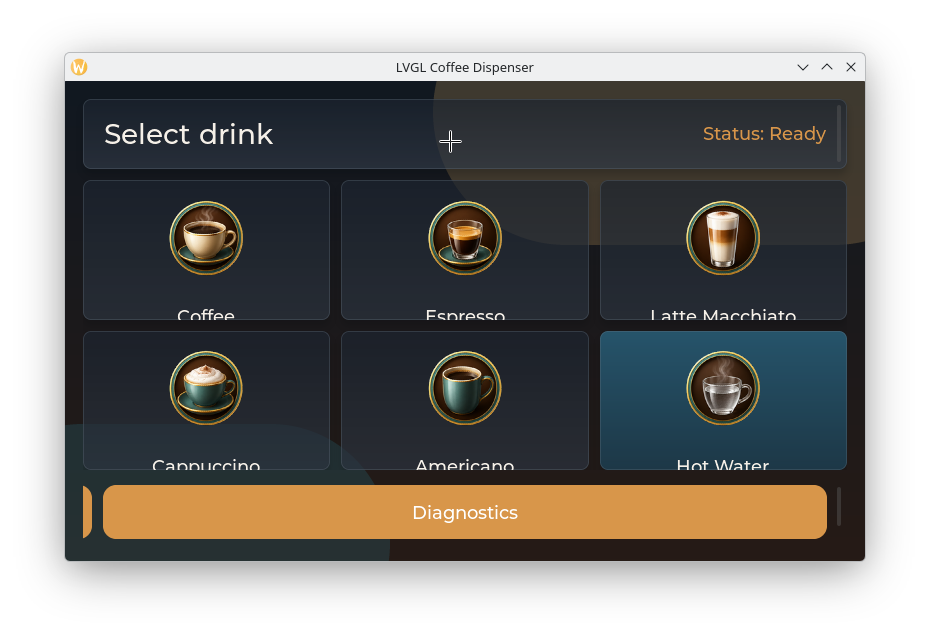
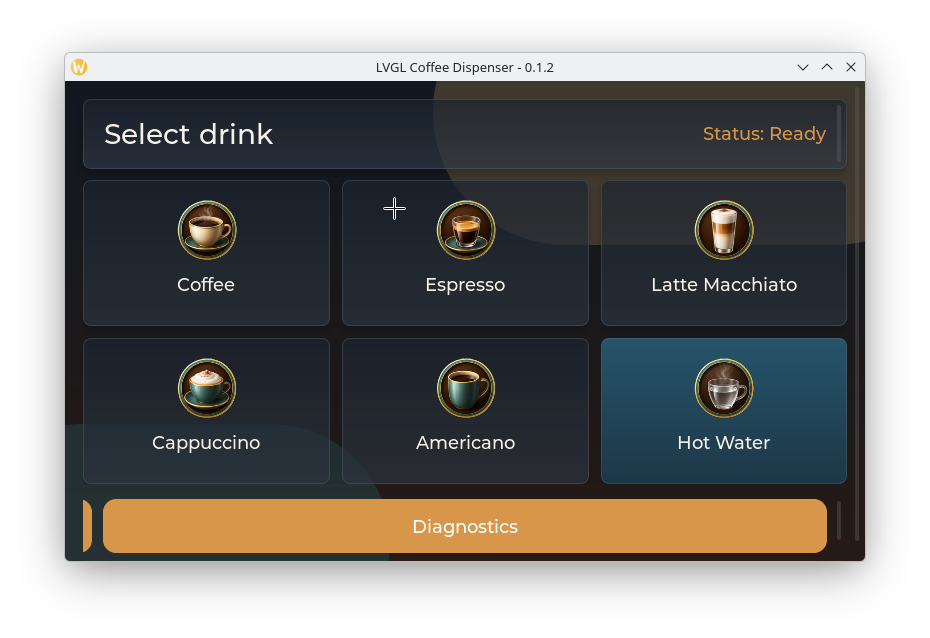
feat(ui): display build version in splash title and window title
Appends COFFEE_APP_VERSION (injected at compile time from the CMake
project version) to the splash screen title label and the SDL window
title bar, giving a visible build identifier without any runtime
overhead.

diff --git a/src/ui/screens/screen_home.c b/src/ui/screens/screen_home.c
@@ -80,7 +80,7 @@ void coffee_screen_show_splash(coffee_ui_manager_t *ui)
     lv_obj_set_style_bg_opa(halo, LV_OPA_20, 0);
 
     lv_obj_t *title = lv_label_create(screen);
-    lv_label_set_text(title, "Coffee Dispenser");
+    lv_label_set_text(title, "LVGL Coffee Dispenser " COFFEE_APP_VERSION);
     lv_obj_set_style_text_color(title, coffee_ui_color_text(), 0);
     lv_obj_set_style_text_font(title, &lv_font_montserrat_32, 0);
     lv_obj_align(title, LV_ALIGN_CENTER, 0, -28);

diff --git a/src/main.c b/src/main.c
@@ -27,7 +27,7 @@ int main(void)
     lv_init();
 
     lv_display_t *display = lv_sdl_window_create(COFFEE_DEFAULT_WIDTH, COFFEE_DEFAULT_HEIGHT);
-    lv_sdl_window_set_title(display, "LVGL Coffee Dispenser");
+    lv_sdl_window_set_title(display, "LVGL Coffee Dispenser - " COFFEE_APP_VERSION);
     lv_sdl_window_set_resizeable(display, true);
     lv_sdl_mouse_create();
     lv_sdl_mousewheel_create();
